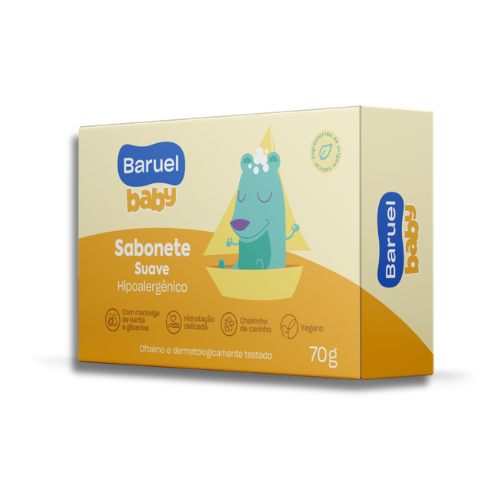
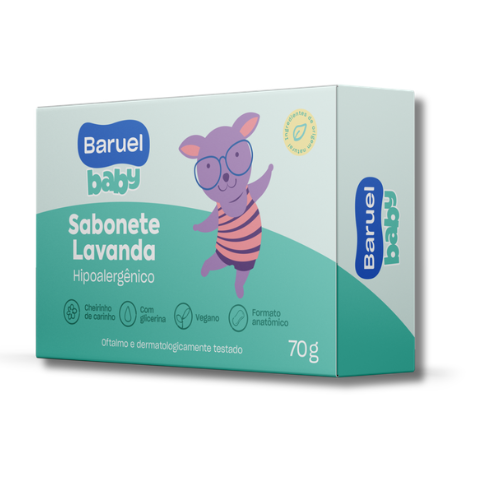
Atualiza foto SABBABL70 (Sabonete Baruel Baby Lavanda 70g)

diff --git a/dados-version.js b/dados-version.js
@@ -1,1 +1,1 @@
-window.DADOS_ATUALIZADOS = "02/06/2026";
+window.DADOS_ATUALIZADOS = "05/06/2026";
